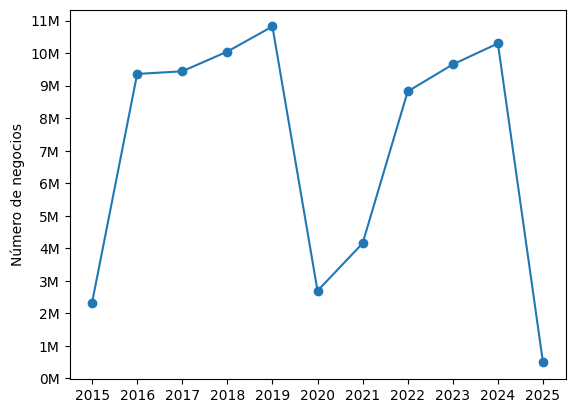
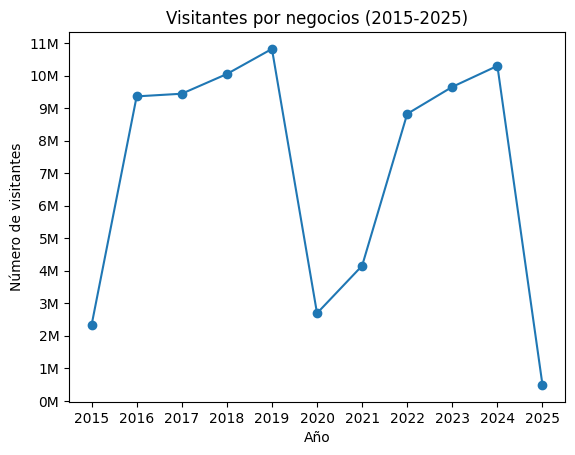
Actualizacion imagen vistitantes por negocios y Readme

diff --git a/README.md b/README.md
@@ -1,7 +1,8 @@
 # ¿Cómo viajan los turistas en España?
 
 ### Un estudio de tendencias y comportamiento del turismo en España
-![Turismo España](./Imagenes/Turismo_banner.png)
+
+![Turismo.png](./Imagenes/Turismo_banner.png)
 
 ## Descripción
 Este proyecto es un Análisis Exploratorio de Datos (EDA) sobre las tendencias y el comportamiento del turismo en España. Utiliza datos del Instituto Nacional de Estadística (INE) para examinar patrones de estacionalidad, tipología de viaje, turismo de negocios y gasto de los turistas según su país de origen.
